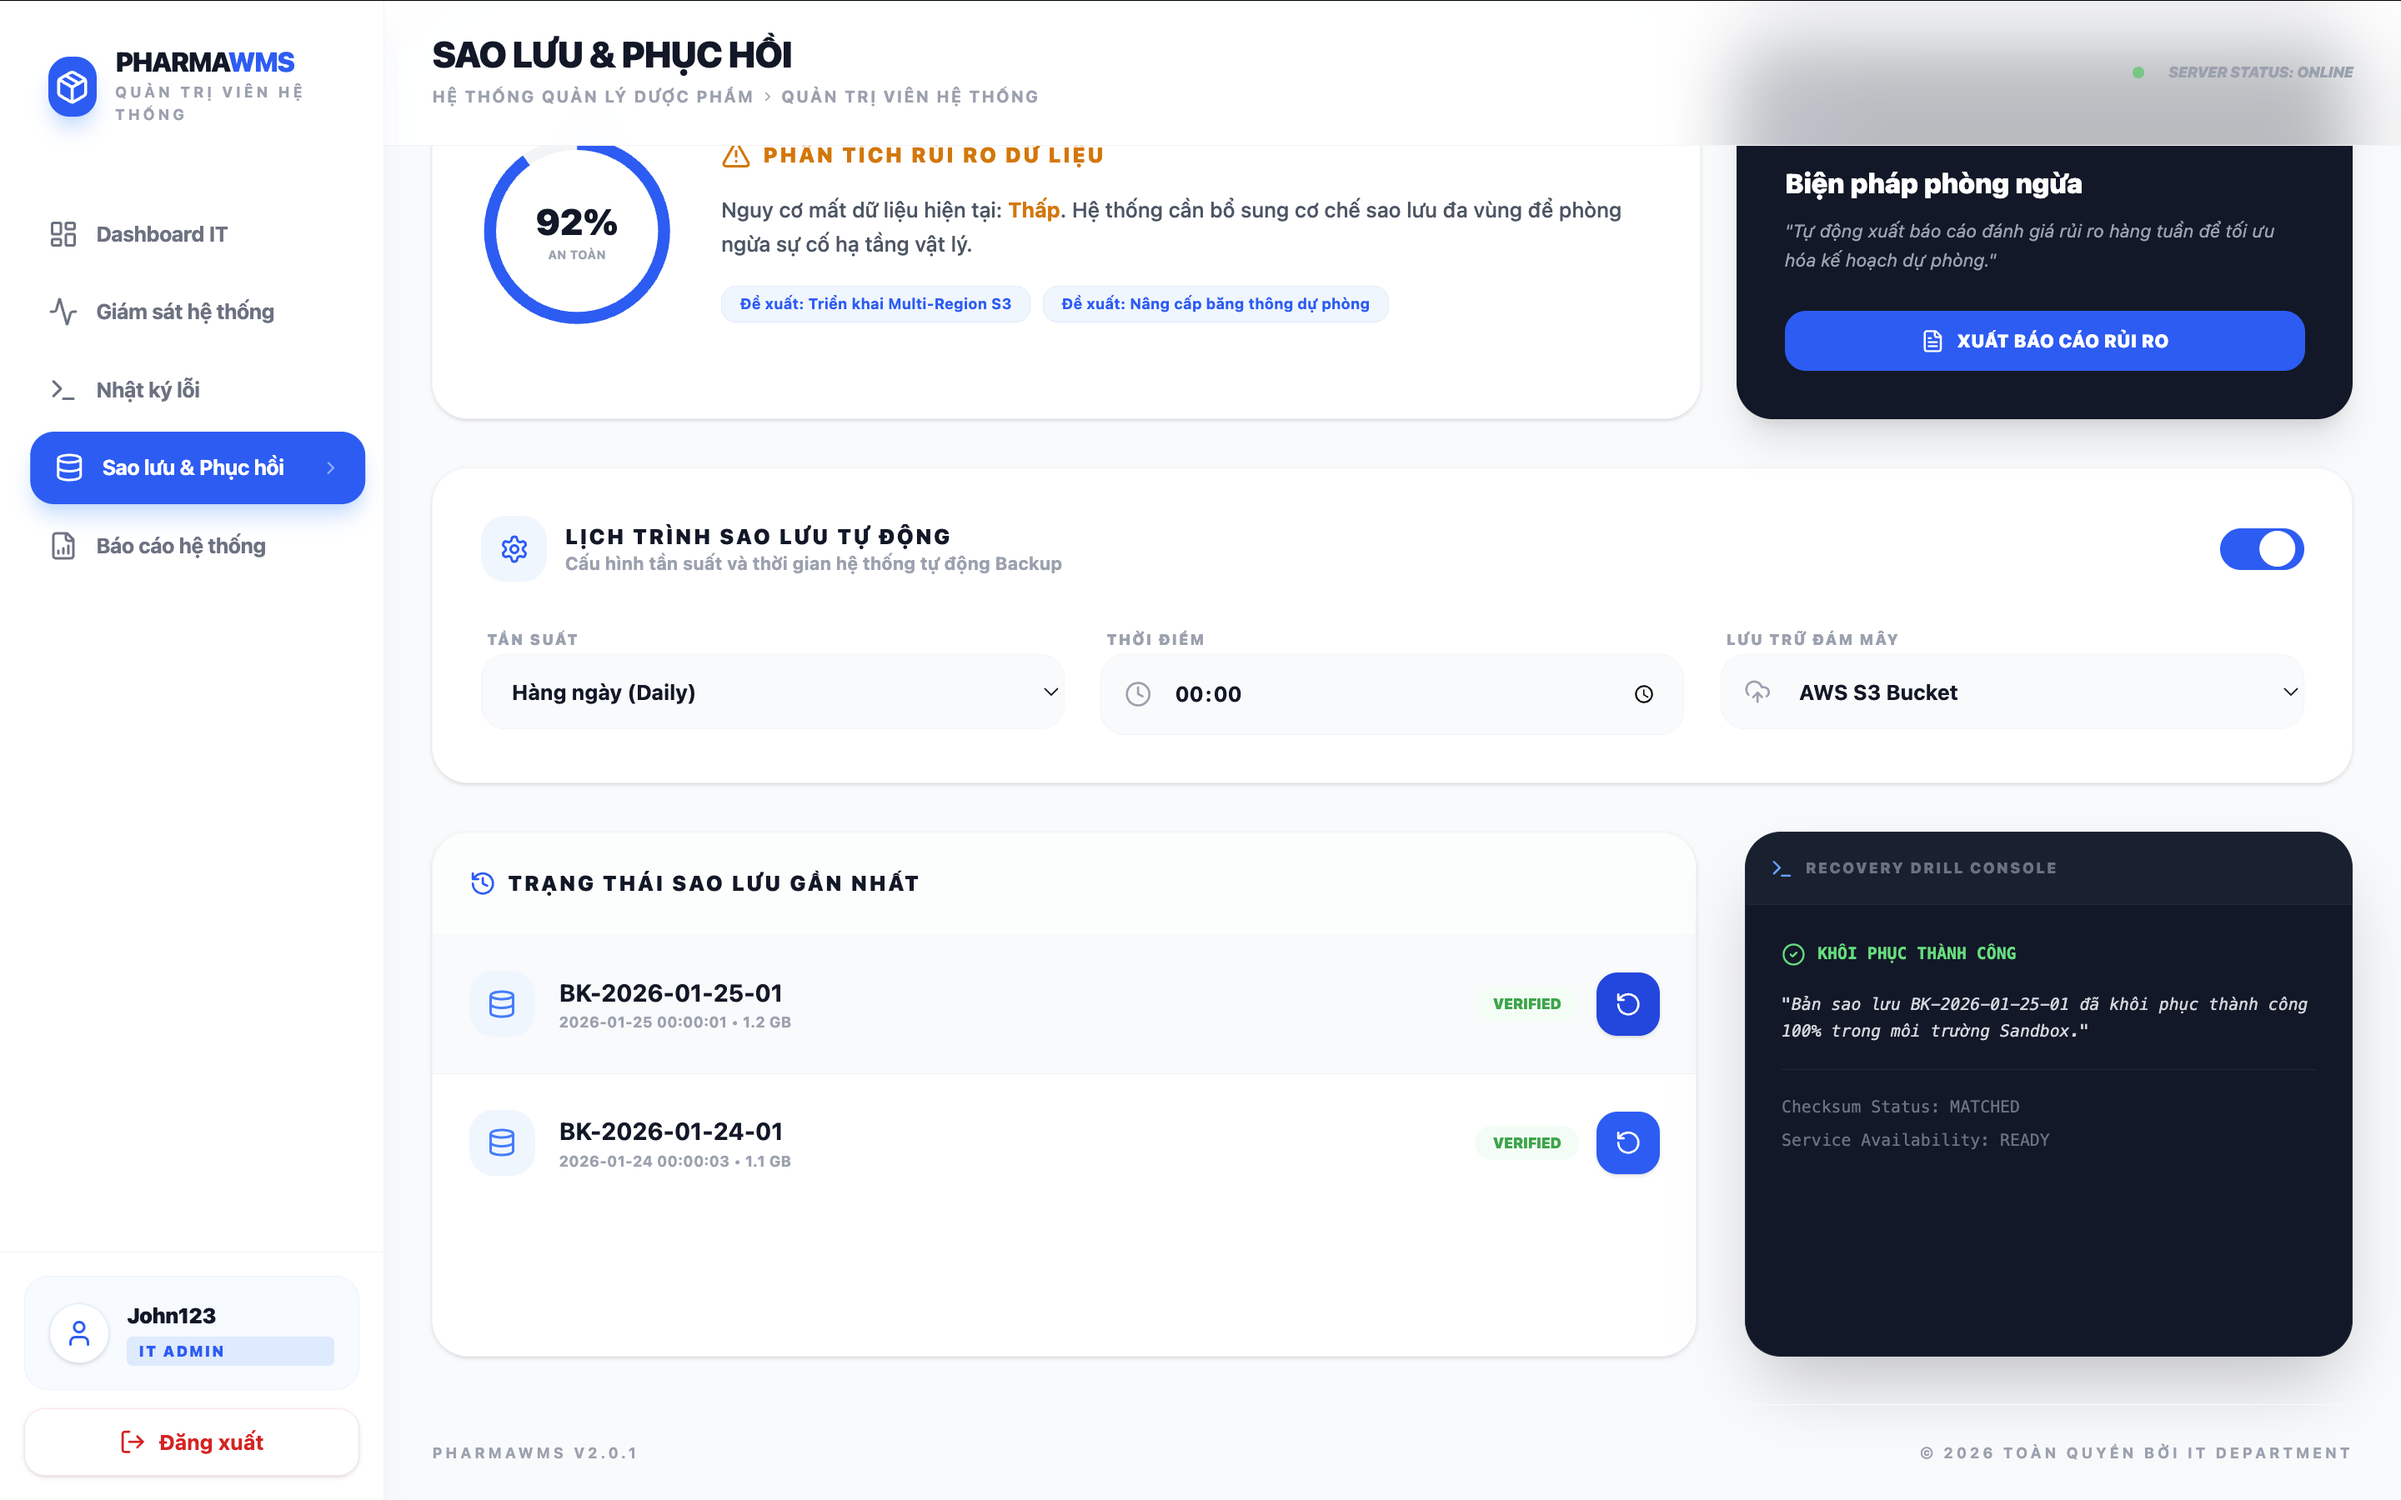
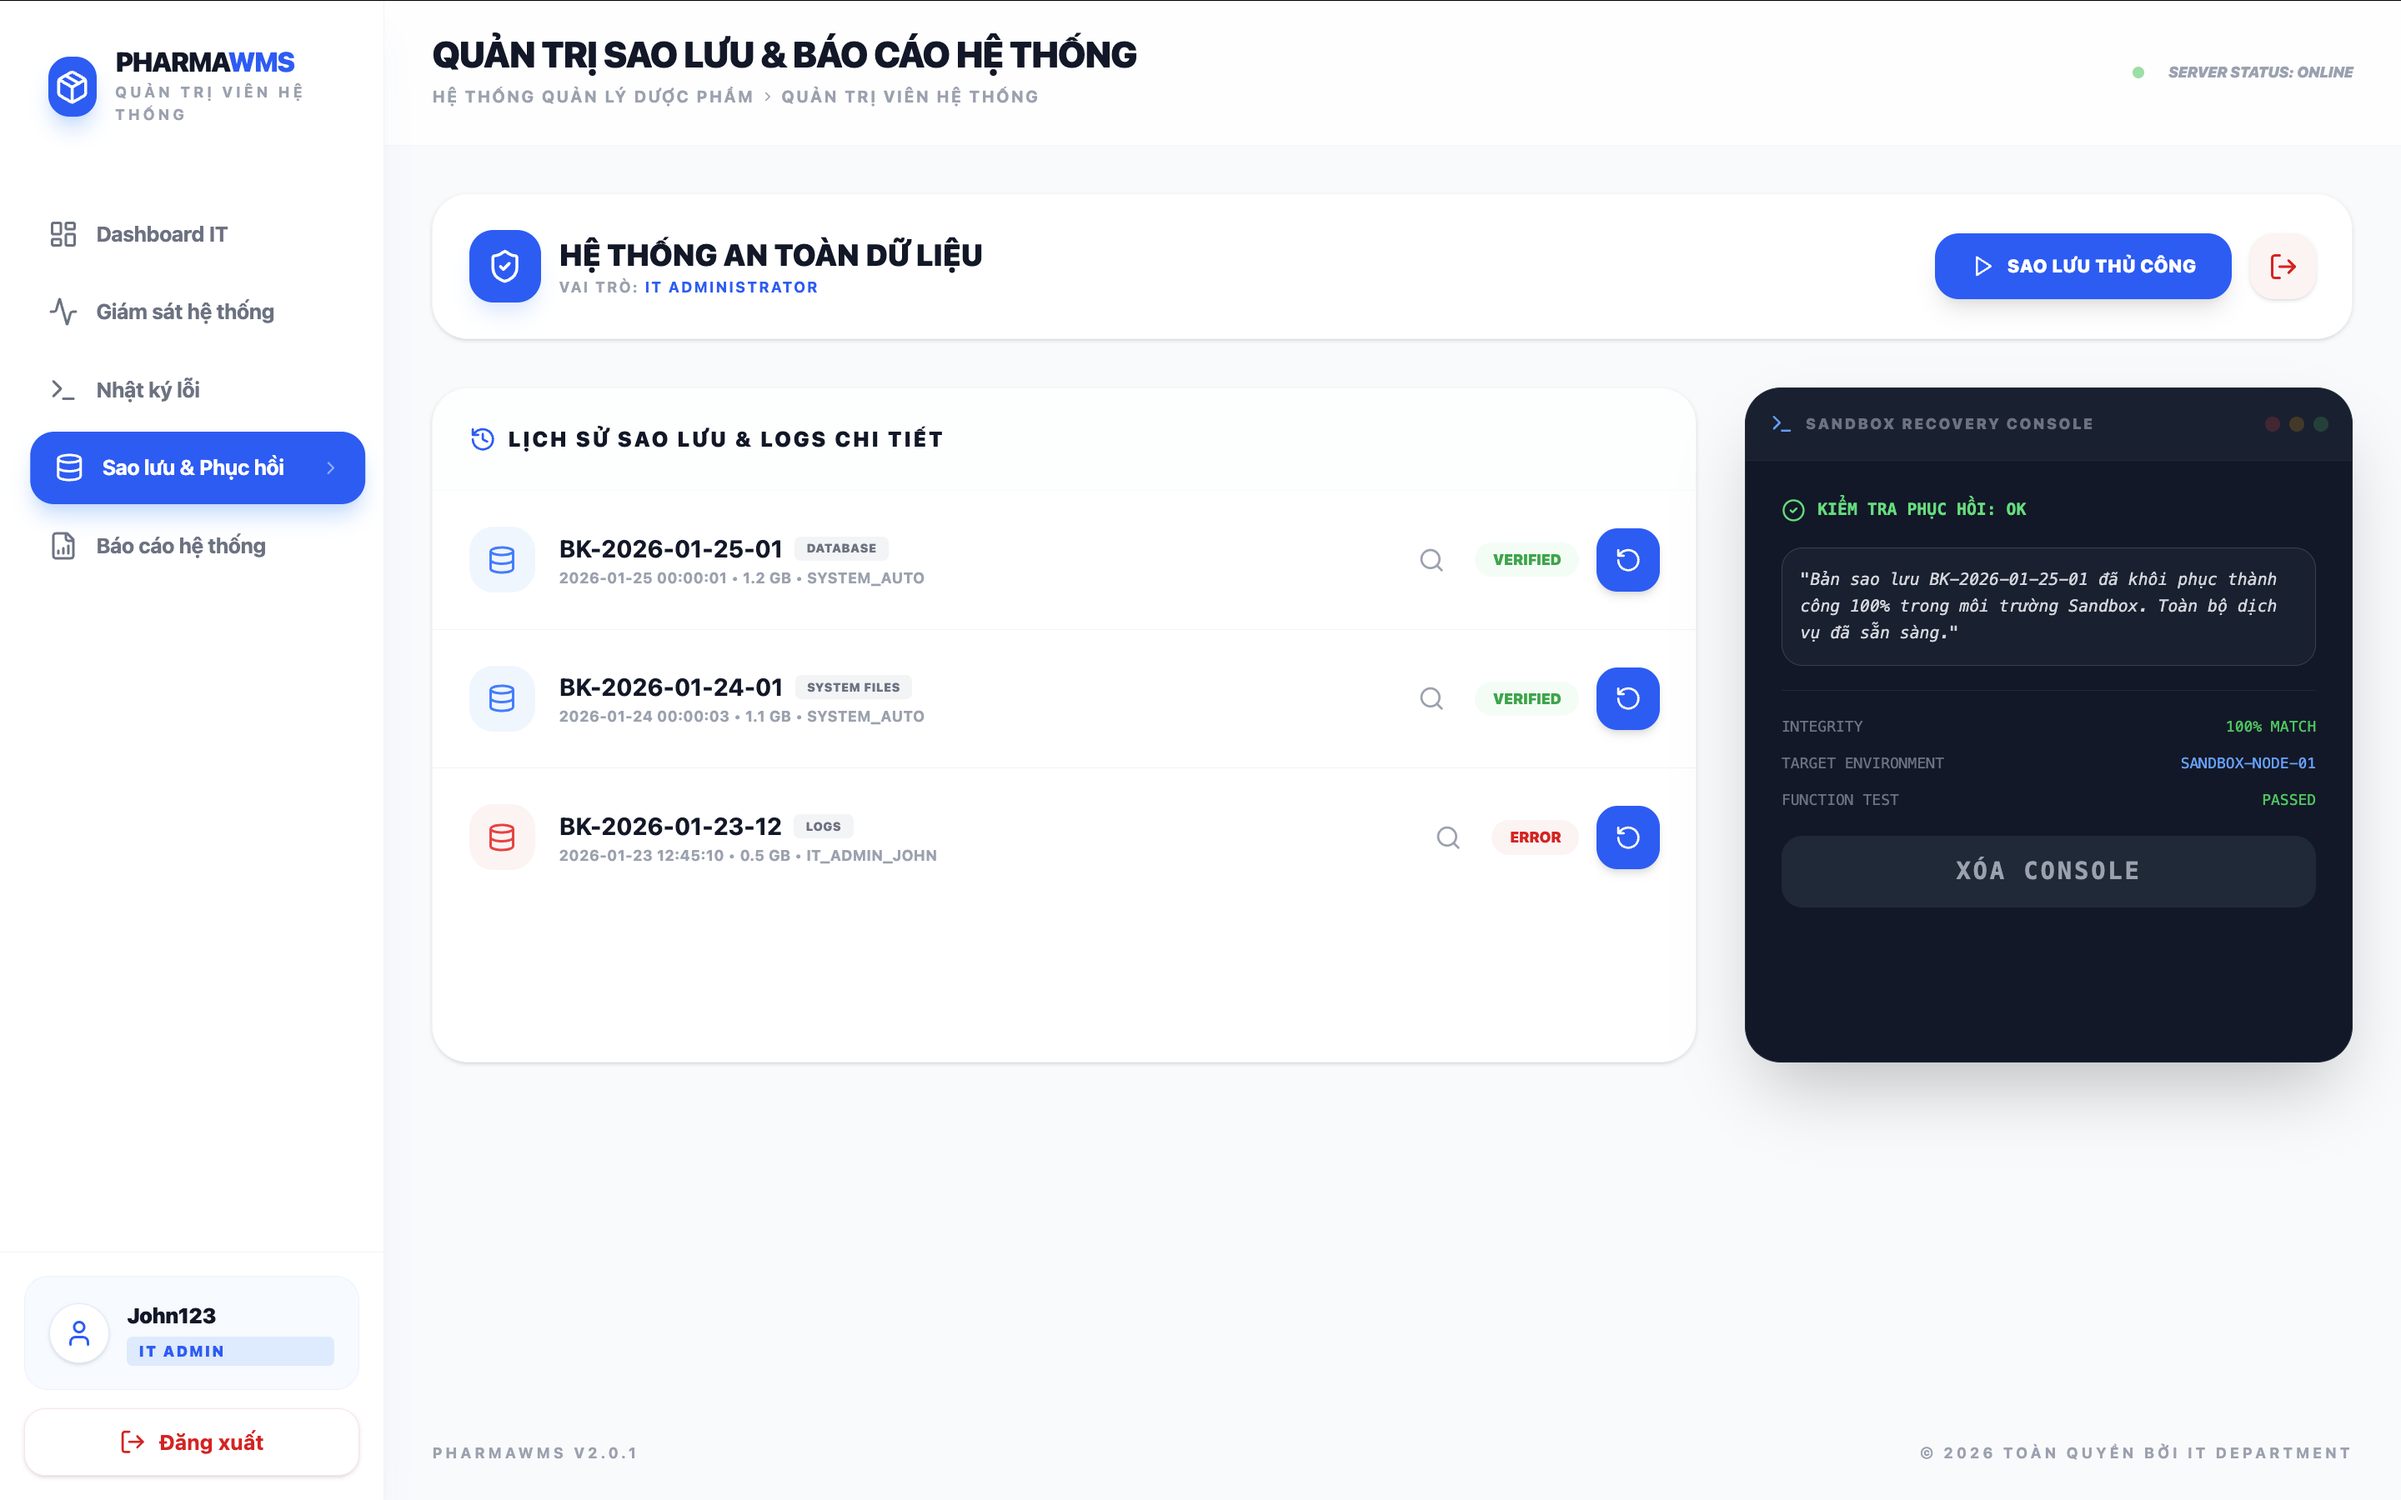
Update UserInterface: add and describe Manager import/export workflow screens with images

diff --git a/01_Documents/UserInterface.md b/01_Documents/UserInterface.md
@@ -2,7 +2,7 @@
 
 > **Figma UI Design:** [https://www.figma.com/make/M4oBqro4C0xRpbjKkpVFaK/Simple-Auth-for-Inventory-System?t=xN4GnleNv06fS01O-20&fullscreen=1](https://www.figma.com/make/M4oBqro4C0xRpbjKkpVFaK/Simple-Auth-for-Inventory-System?t=xN4GnleNv06fS01O-20&fullscreen=1)
 
-UI có cả phiên bản cho web máy tính (desktop) và mobile.
+UI có cả phiên bản cho web máy tính và mobile.
 
 
 **Mockdata đăng nhập cho các vai trò:**
@@ -384,11 +384,19 @@ Bằng cách nhấn vào nút "Lịch sử xử lý", hệ thống hiển thị 
 
 ![Backup Screen](./Images/ITAdministrator/BackupScreen.png)
 
-Khi chọn mục "Sao lưu & khôi phục", người dùng truy cập vào trung tâm quản lý an toàn dữ liệu với bảng phân tích rủi ro và các đề xuất phòng ngừa cụ thể. Quản trị viên có thể thiết lập lịch trình sao lưu tự động theo tần suất và thời gian tùy chỉnh, đồng thời kiểm tra trạng thái "Verified" của các bản sao lưu gần nhất. Đặc biệt, tính năng "Recovery Drill Console" cho phép thực hiện phục hồi thử nghiệm trong môi trường Sandbox để đảm bảo khả năng khôi phục dữ liệu 100% khi có sự cố thật xảy ra.
+Khi người dùng nhấn vào mục "Sao lưu & Phục hồi" trên thanh điều hướng, giao diện BackupScreen xuất hiện đóng vai trò là trung tâm kiểm soát an toàn dữ liệu tập trung cho hệ thống. Màn hình này cung cấp danh sách nhật ký sao lưu chi tiết kèm theo các nhãn trạng thái trực quan và tính năng "Sandbox Recovery Console" để diễn tập phục hồi dữ liệu trong môi trường giả lập. Quản trị viên có thể chủ động theo dõi các bản ghi lỗi phát sinh hoặc thực hiện lệnh sao lưu thủ công tức thời nhằm đảm bảo hạ tầng PharmaWMS luôn trong trạng thái sẵn sàng ứng phó sự cố.
 
 ---
 
-### 5.6 Report Screen
+### 5.6 Backup Detail Screen
+
+![Backup Detail Screen](./Images/ITAdministrator/BackupDetail.png)
+
+Khi người dùng nhấn vào biểu tượng kính lúp tại danh sách lịch sử, cửa sổ modal BackupDetail hiển thị hồ sơ kỹ thuật chuyên sâu của một bản sao lưu cụ thể. Giao diện cung cấp mã Checksum (sha256) duy nhất để xác thực tính toàn vẹn của dữ liệu và thông tin chính xác về vị trí lưu trữ vật lý như AWS S3 Bucket. Đây là công cụ quan trọng giúp IT Administrator truy vết chính xác định danh người thực hiện và đảm bảo mọi tệp tin sao lưu đều tuân thủ nghiêm ngặt các quy chuẩn an toàn thông tin dược phẩm.
+
+---
+
+### 5.7 Report Screen
 
 ![Report Screen](./Images/ITAdministrator/ReportScreen.png)
 
